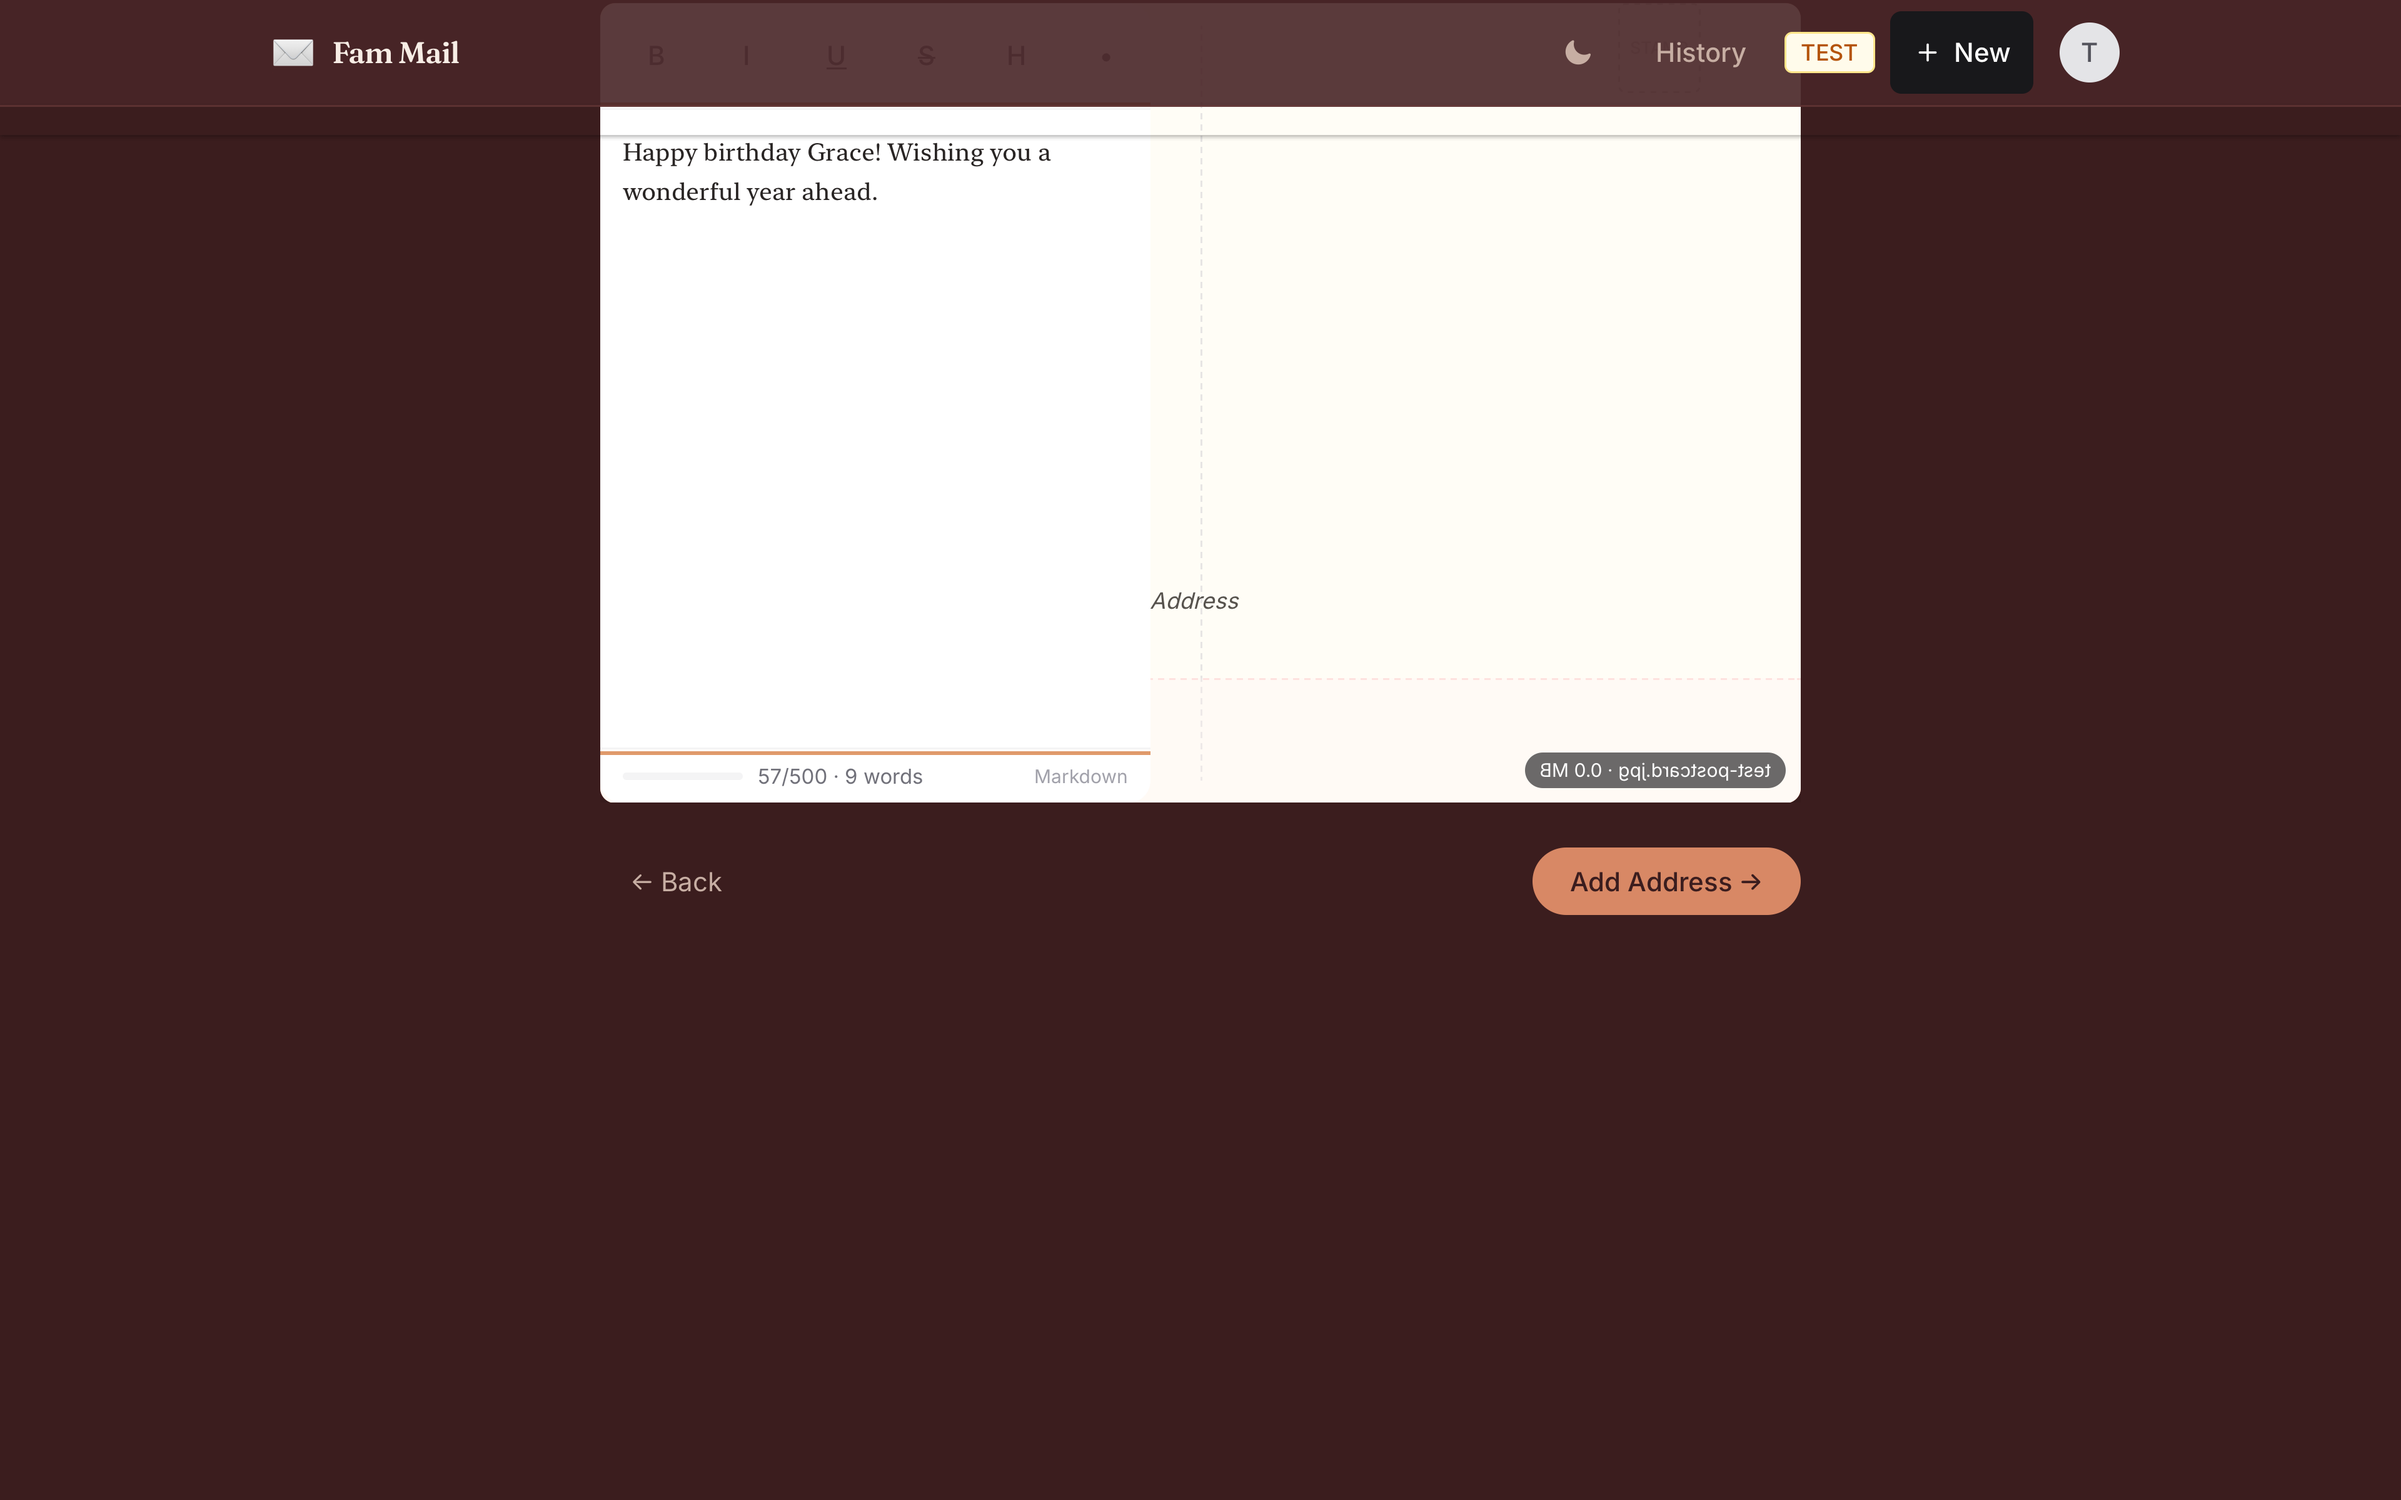
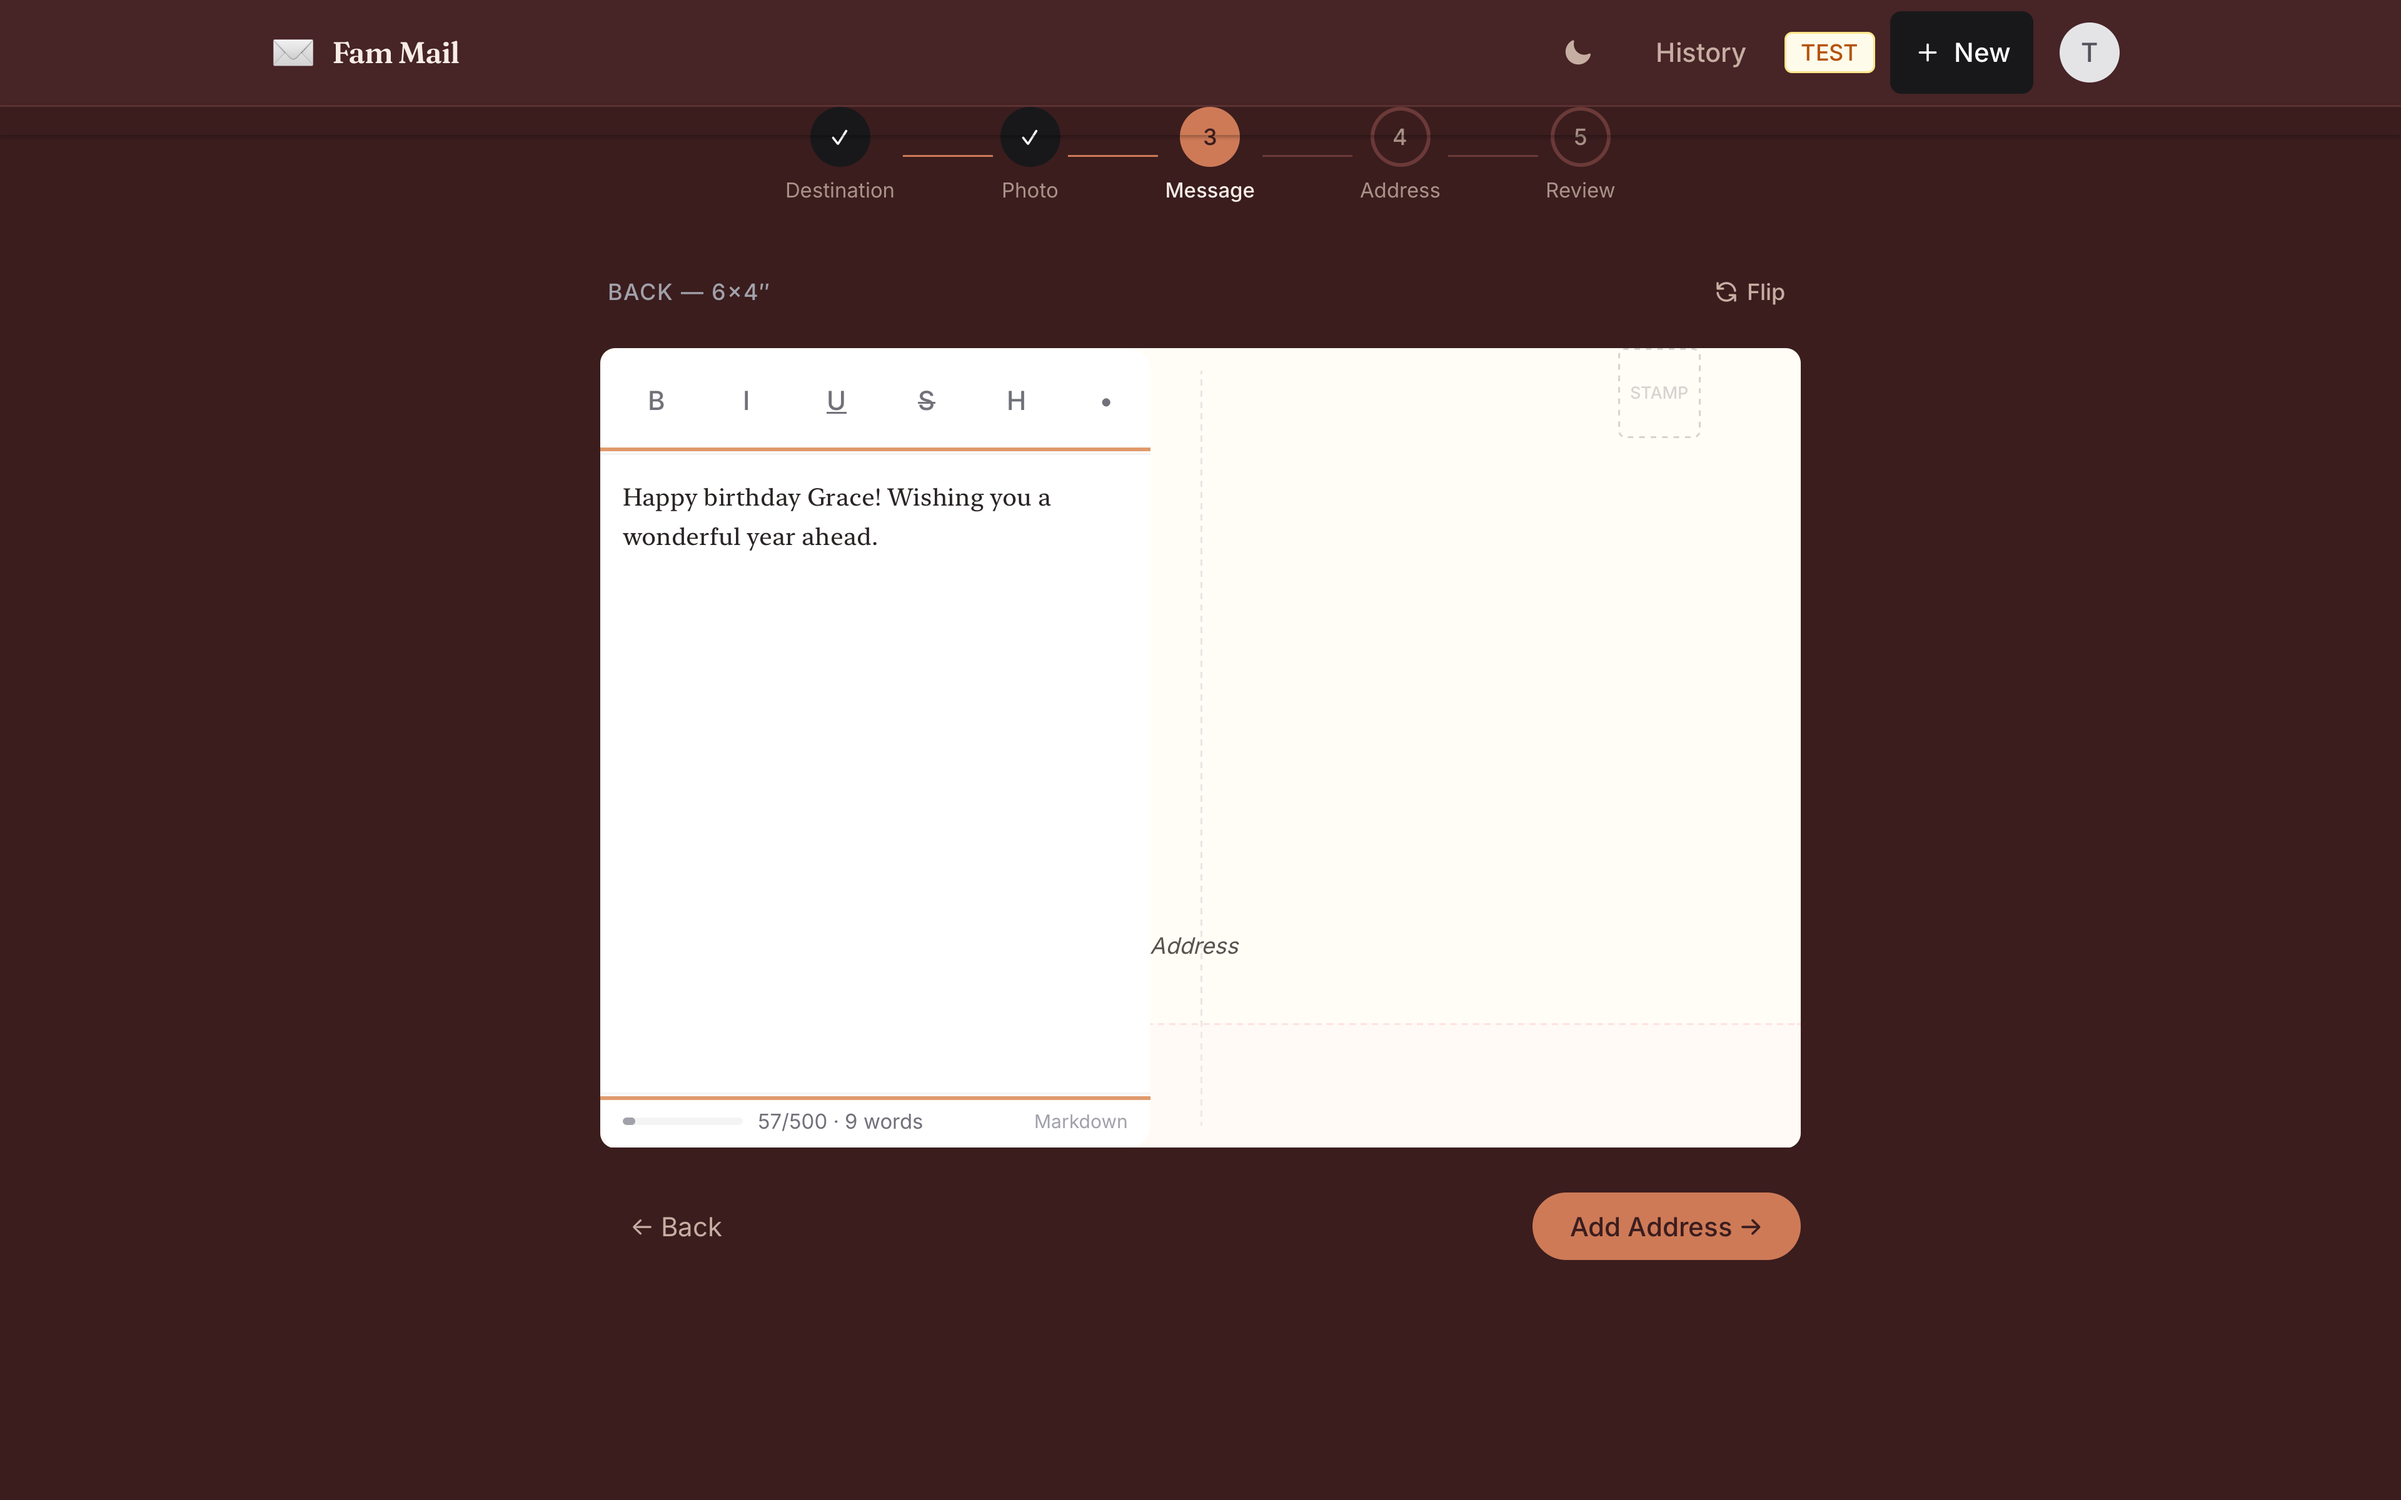
fix(preview): hide the settled inactive face - kill backface bleed-through in captures (ISSUE-0123)
Headless Chromium (Playwright captures) does not honor
backface-visibility: hidden on composited 3D layers, so the wizard's
inactive card face bled through the active one - mirrored - in every
committed screenshot showing content on both faces (desktop-photo showed
the BACK reversed through the FRONT; desktop-review showed the mirrored
filename badge and address ghosting).

Mechanism: the 400ms rotateY flip and the reduced-motion 150ms crossfade
are untouched. A useLayoutEffect on showBack marks the flip as in-flight
(both faces stay painted - no pop, both stay in the DOM), and a timer
(T.flip.duration + 50ms) marks it settled; at rest the inactive face gets
opacity: 0. opacity is enough to stop the paint - visibility: hidden was
deliberately avoided because it also changes hit-testing and keyboard
focus, which the interactive flip and inline editors rely on. In headed
browsers this is invisible (backface culling already hid that face).

Proof: capture set regenerated against vite preview - the mirrored
'Your message'/'Address'/'STAMP'/'BARCODE ZONE' ghost in desktop-photo.png
and the reversed badge in desktop-review.png are gone; both faces still
exist in DOM mid-flip per the new unit tests.

Also removes two stale unreferenced PNGs from the committed set:
login.png (old light-theme login, pre-redesign) and mobile-04-photo.png
(superseded naming) - both showed the old app surface and neither was
generated by the current spec.
[…]

Changed region(s): [[0.25, 0.5, 0.75, 0.8438], [0.25, 0.0625, 0.75, 0.25], [0.25, 0.3125, 0.4375, 0.375]]

diff --git a/frontend/src/components/postcard/PostcardPreview.tsx b/frontend/src/components/postcard/PostcardPreview.tsx
@@ -1,4 +1,4 @@
-import { useEffect, useMemo, useCallback, useState } from 'react'
+import { useEffect, useLayoutEffect, useMemo, useCallback, useRef, useState } from 'react'
 import { useDropzone, type FileRejection } from 'react-dropzone'
 import { fileToDataUrl } from '../../utils/imageData'
 import { motion, useReducedMotion } from 'framer-motion'
@@ -12,6 +12,19 @@ import { InlineMessageEditor } from './InlineMessageEditor'
 import { InlineAddressForm } from './InlineAddressForm'
 
 const MAX_PHOTO_SIZE = 10 * 1024 * 1024
+
+/**
+ * ISSUE-0123: headless Chromium (Playwright captures / CI) ignores
+ * `backface-visibility: hidden` on composited 3D layers, so the card's
+ * inactive face bleeds through the active one — mirrored — in committed
+ * screenshots. We keep the 400ms rotateY flip untouched, but once the flip
+ * settles we stop relying on backface culling alone and hard-hide the face
+ * that is facing away (opacity 0). In headed browsers this is invisible
+ * (culling already hides that face); in capture environments it removes the
+ * bleed-through. Only opacity is used — `visibility: hidden` would also
+ * change hit-testing and keyboard focus, which the interactive flip relies on.
+ */
+const FLIP_SETTLE_MS = T.flip.duration * 1000 + 50
 
 const SIZE_LABELS: Record<PostcardSize, string> = {
   '6x4': '6×4″',
@@ -44,6 +57,21 @@ export function PostcardPreview({
   const [editingAddress, setEditingAddress] = useState(false)
   const [photoError, setPhotoError] = useState<string | null>(null)
   const reduce = useReducedMotion()
+
+  // True when no flip animation is in flight. On mount (no animation yet)
+  // the resting state is already settled; the layout effect below only arms
+  // it on showBack changes so both faces stay painted during the flip.
+  const [flipSettled, setFlipSettled] = useState(true)
+  const firstRender = useRef(true)
+  useLayoutEffect(() => {
+    if (firstRender.current) {
+      firstRender.current = false
+      return
+    }
+    setFlipSettled(false)
+    const timer = setTimeout(() => setFlipSettled(true), FLIP_SETTLE_MS)
+    return () => clearTimeout(timer)
+  }, [showBack])
 
   const isPhotoActive = activeZone === 'photo'
   const isMessageActive = activeZone === 'message'
@@ -170,13 +198,18 @@ export function PostcardPreview({
         >
           {/* Front */}
           <div
+            data-testid="preview-front"
             className={`absolute inset-0 rounded-lg overflow-hidden transition-shadow duration-200 ${
               isPhotoActive ? 'shadow-xl ring-2 ring-warm-ring' : 'shadow-lg'
             } ${isPhotoActive ? 'cursor-pointer' : ''}`}
             style={{
               backfaceVisibility: 'hidden',
-              // Reduced motion: crossfade faces instead of rotateY
-              opacity: reduce ? (showBack ? 0 : 1) : 1,
+              // Reduced motion: crossfade faces instead of rotateY.
+              // Full motion: hide the resting inactive face for capture
+              // environments where backface culling is not honored (0123).
+              opacity: reduce
+                ? (showBack ? 0 : 1)
+                : (flipSettled && showBack ? 0 : 1),
               transition: reduce ? 'opacity 150ms linear' : undefined,
             }}
             {...getRootProps()}
@@ -239,6 +272,7 @@ export function PostcardPreview({
 
           {/* Back */}
           <div
+            data-testid="preview-back"
             className="absolute inset-0 rounded-lg overflow-hidden shadow-lg bg-paper"
             style={reduce
               ? {
@@ -246,7 +280,12 @@ export function PostcardPreview({
                   opacity: showBack ? 1 : 0,
                   transition: 'opacity 150ms linear',
                 }
-              : { backfaceVisibility: 'hidden', transform: 'rotateY(180deg)' }}
+              : {
+                  backfaceVisibility: 'hidden',
+                  transform: 'rotateY(180deg)',
+                  // At rest the inactive face is hard-hidden (ISSUE-0123)
+                  opacity: flipSettled && !showBack ? 0 : 1,
+                }}
           >
             <div className="h-full flex relative">
               {/* Message area */}

diff --git a/frontend/src/components/postcard/PostcardPreview.test.tsx b/frontend/src/components/postcard/PostcardPreview.test.tsx
@@ -1,6 +1,6 @@
 import type { HTMLAttributes, ReactNode } from 'react'
 import { describe, it, expect, vi, beforeEach } from 'vitest'
-import { render, screen, fireEvent } from '@testing-library/react'
+import { render, screen, fireEvent, act } from '@testing-library/react'
 import { PostcardPreview } from './PostcardPreview'
 import type { Address } from '../../types/address'
 
@@ -424,6 +424,54 @@ describe('PostcardPreview', () => {
       )
       expect(container.querySelector('span[style]')).toBeNull()
       expect(screen.getByText('pwn')).toBeInTheDocument()
+    })
+  })
+
+  // ISSUE-0123: headless Chromium ignores backface-visibility on composited
+  // 3D layers, so once the flip settles the inactive face must be hard-hidden
+  // (opacity 0) instead of relying on backface culling alone.
+  describe('capture-safe face hiding (ISSUE-0123)', () => {
+    const getFace = (container: HTMLElement, testid: string): HTMLElement => {
+      const face = container.querySelector(`[data-testid="${testid}"]`)
+      expect(face).not.toBeNull()
+      return face as HTMLElement
+    }
+
+    it('hides the resting back face when showing the front', () => {
+      const { container } = render(
+        <PostcardPreview image={null} message="" address={null} showBack={false} onFlip={onFlip} />,
+      )
+      expect(getFace(container, 'preview-back').style.opacity).toBe('0')
+      expect(getFace(container, 'preview-front').style.opacity).toBe('1')
+    })
+
+    it('hides the resting front face when showing the back', () => {
+      const { container } = render(
+        <PostcardPreview image={null} message="" address={null} showBack onFlip={onFlip} />,
+      )
+      expect(getFace(container, 'preview-front').style.opacity).toBe('0')
+      expect(getFace(container, 'preview-back').style.opacity).toBe('1')
+    })
+
+    it('keeps both faces painted during the flip, then re-hides the inactive one', () => {
+      vi.useFakeTimers()
+      try {
+        const { container, rerender } = render(
+          <PostcardPreview image={null} message="" address={null} showBack={false} onFlip={onFlip} />,
+        )
+        // Flip starts: both faces must exist and stay painted (no pop)
+        rerender(
+          <PostcardPreview image={null} message="" address={null} showBack onFlip={onFlip} />,
+        )
+        expect(getFace(container, 'preview-front').style.opacity).toBe('1')
+        expect(getFace(container, 'preview-back').style.opacity).toBe('1')
+        // Past the 400ms flip duration, the new resting state hides the front
+        act(() => { vi.advanceTimersByTime(500) })
+        expect(getFace(container, 'preview-front').style.opacity).toBe('0')
+        expect(getFace(container, 'preview-back').style.opacity).toBe('1')
+      } finally {
+        vi.useRealTimers()
+      }
     })
   })
 })
